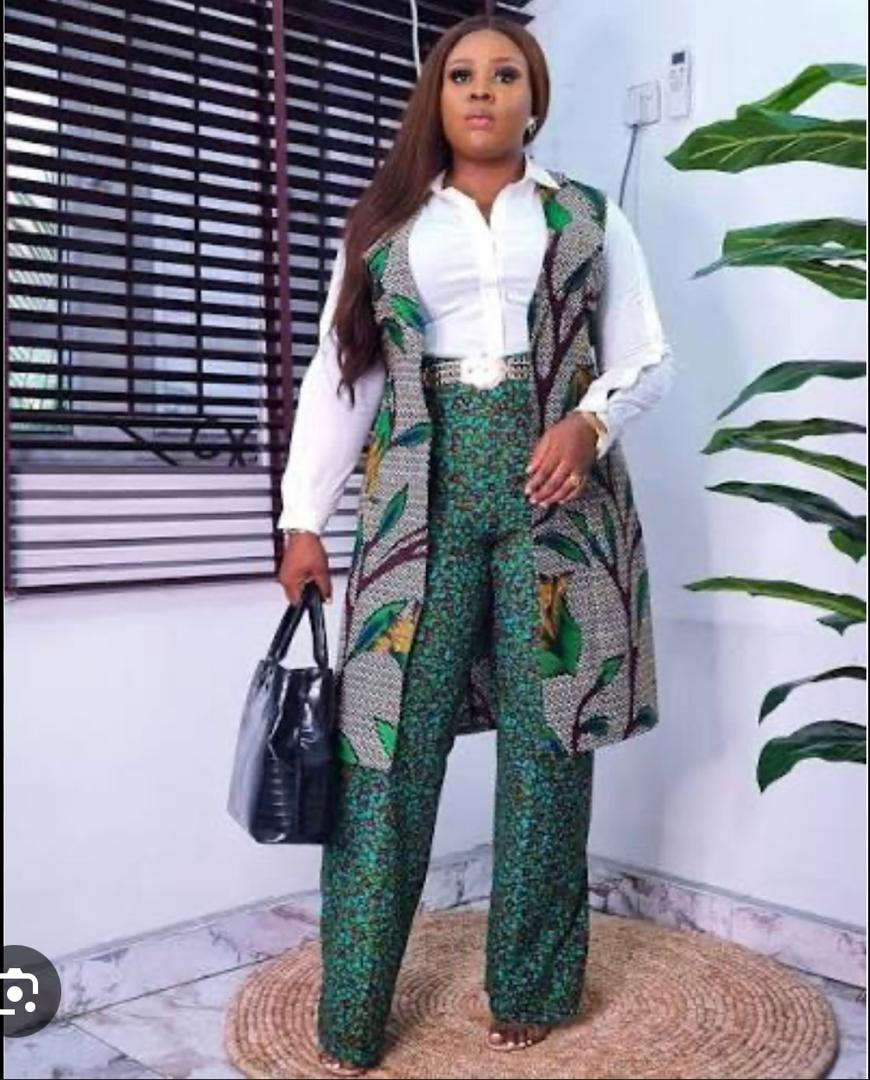
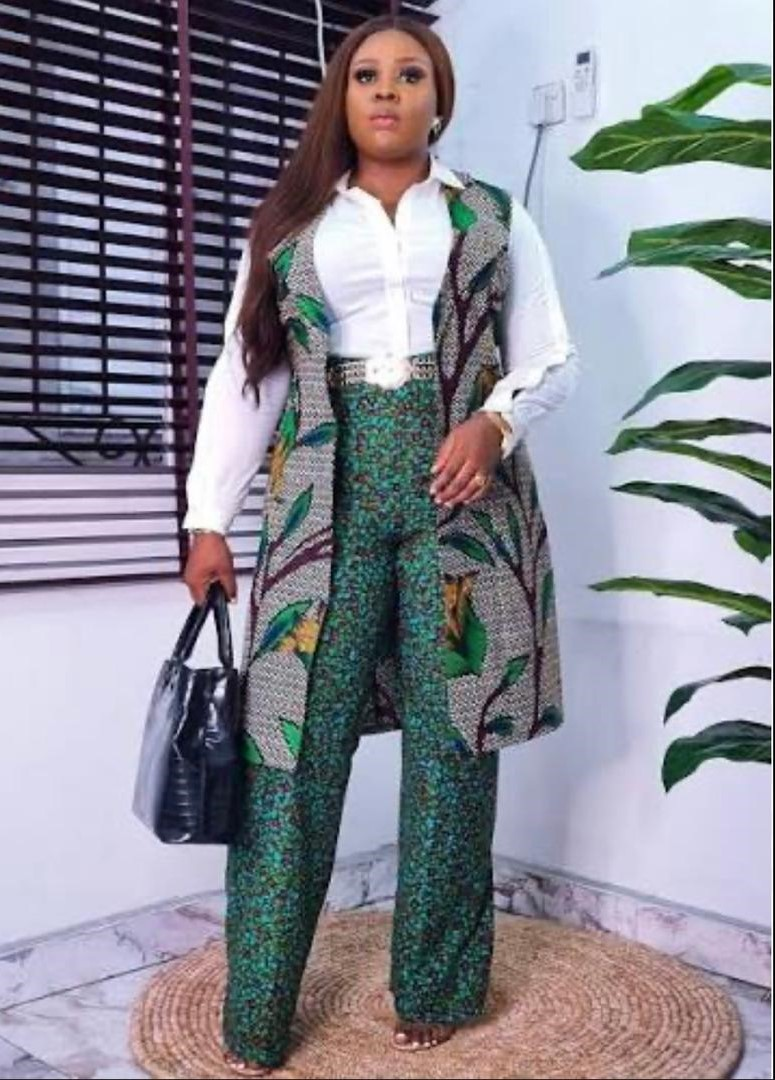
version 3

diff --git a/src/app/landing-page/landing-page.scss b/src/app/landing-page/landing-page.scss
@@ -53,14 +53,14 @@ section {
     .btn2:hover{
         background-color: white;
     }
-    .bg{
+    .bgd{
     background-image: url('../../../public/article\ \(33\).jpg');
     height: 100%;
     background-position: center;
     background-size: cover;
     background-repeat: no-repeat;
     }
-        .bgd {
+        .bg {
     width: 100%;
     height: 100%;
     color: white;
@@ -82,9 +82,12 @@ section {
 
     @keyframes slideShow {
     0%   { background-image: url('../../../public/article\ \(33\).jpg'); }
-    33%  { background-image: url('../../../public/article\ \(1\).jpg'); }
-    66%  { background-image: url('../../../public/article\ \(2\).jpg'); }
-    100% { background-image: url('../../../public/article\ \(19\).jpg'); }
+    15%  { background-image: url('../../../public/article\ \(184\).jpg'); }
+    30%  { background-image: url('../../../public/article\ \(2\).jpg'); }
+    60%  { background-image: url('../../../public/article\ \(36).jpg'); }
+    75% { background-image: url('../../../public/article\ \(28\).jpg'); }
+    90% { background-image: url('../../../public/article\ \(19\).jpg'); }
+    100% { background-image: url('../../../public/article\ \(196\).jpg'); }
     }
 
 }

diff --git a/src/app/landing-page/landing-page.html b/src/app/landing-page/landing-page.html
@@ -21,7 +21,6 @@
                             <span class="title fin">BRACAMEA!!! : l’élégance, réinventée.</span>
                     </div>
                     <div class="options d-flex justify-content-center mt-4">
-                        <button routerLink="configuration" class="btn1 mx-2 p-1">Showp Now</button>
                         <button routerLink="collection" class="btn2 mx-2 p-1">Voir les collections</button>
                     </div>
                 </div>
